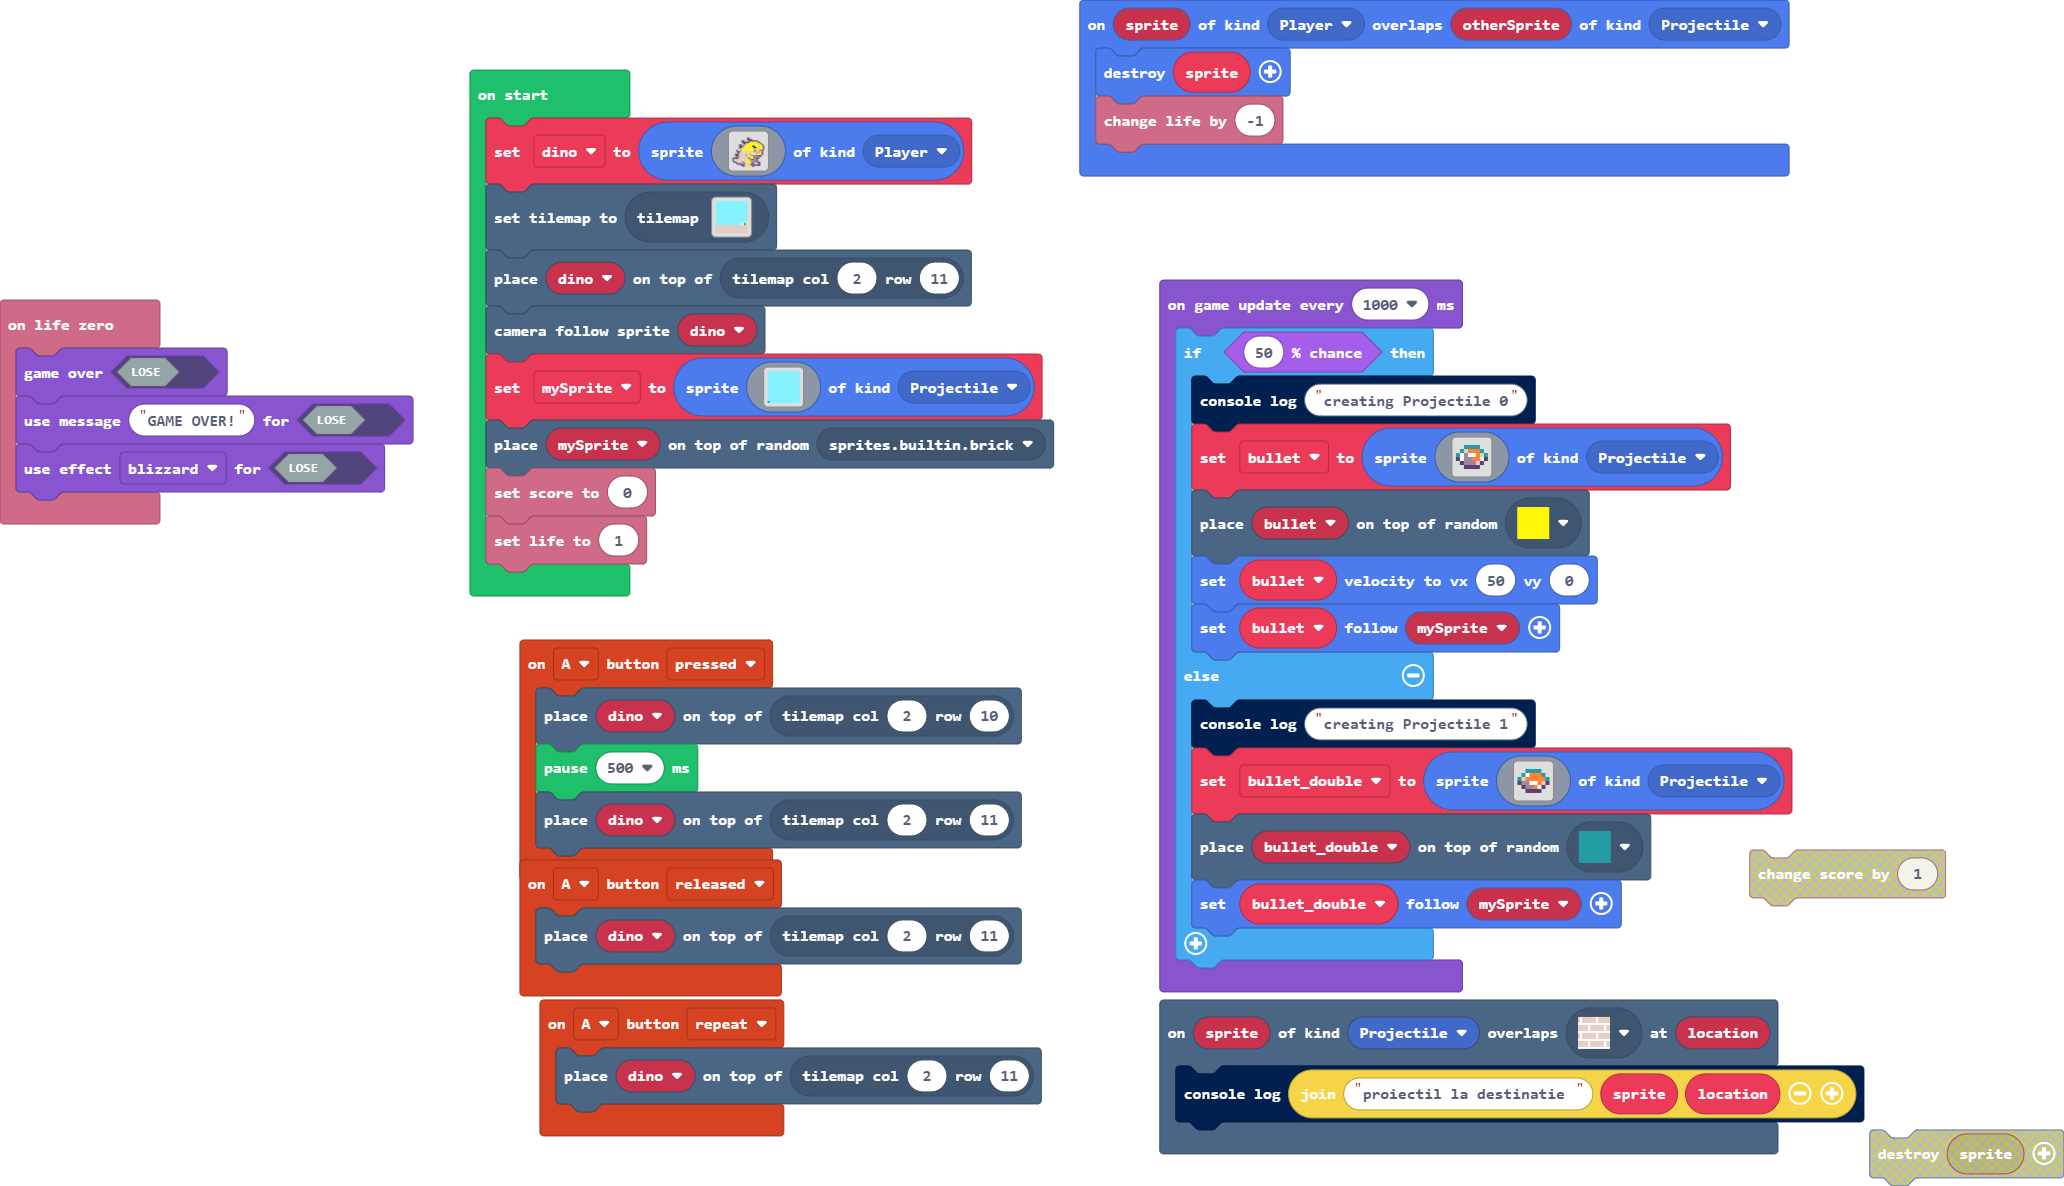
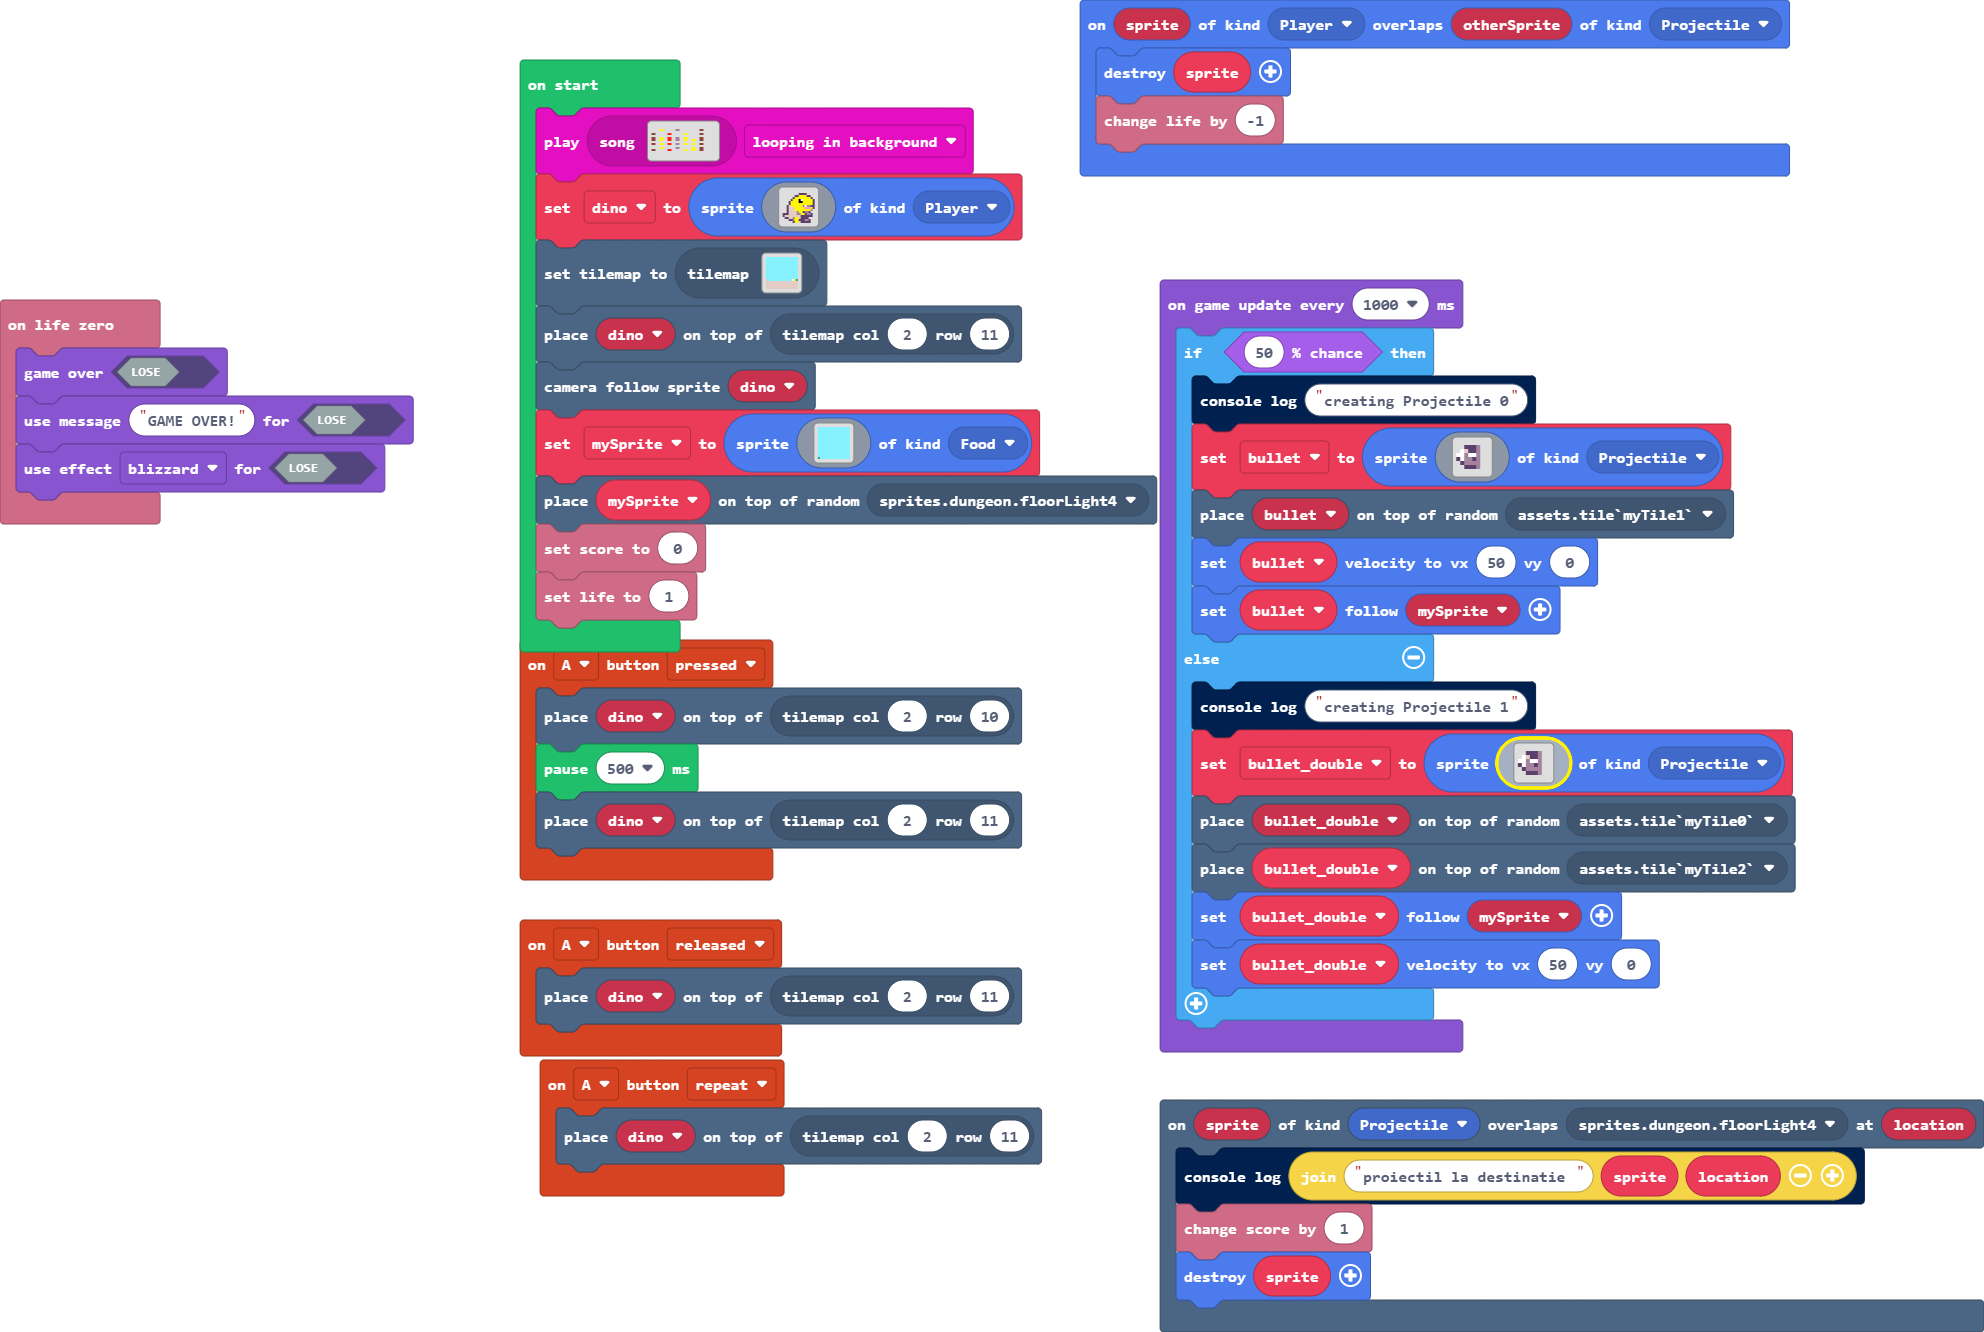
Update pxt.json, main.blocks, main.ts, tilemap.g.jres, tilemap.g.ts

diff --git a/main.ts b/main.ts
@@ -10,9 +10,6 @@ sprites.onOverlap(SpriteKind.Player, SpriteKind.Projectile, function (sprite, ot
 controller.A.onEvent(ControllerButtonEvent.Released, function () {
     tiles.placeOnTile(dino, tiles.getTileLocation(2, 11))
 })
-scene.onOverlapTile(SpriteKind.Projectile, sprites.builtin.brick, function (sprite, location) {
-    console.log("proiectil la destinatie " + sprite + location)
-})
 info.onLifeZero(function () {
     game.gameOver(false)
     game.setGameOverMessage(false, "GAME OVER!")
@@ -21,34 +18,32 @@ info.onLifeZero(function () {
 controller.A.onEvent(ControllerButtonEvent.Repeated, function () {
     tiles.placeOnTile(dino, tiles.getTileLocation(2, 11))
 })
+scene.onOverlapTile(SpriteKind.Projectile, sprites.dungeon.floorLight4, function (sprite, location) {
+    console.log("proiectil la destinatie " + sprite + location)
+    info.changeScoreBy(1)
+    sprites.destroy(sprite)
+})
 let bullet_double: Sprite = null
 let bullet: Sprite = null
 let dino: Sprite = null
[1 lines of base64/hex data omitted]
 dino = sprites.create(img`
-    ........................
-    ........................
-    ...........cc...........
-    ...........cccc.........
-    .......cc...ccccccc.....
-    .......cccccc555555cc...
-    ........ccb5555555555c..
-    .....cc..b555555555555c.
-    .....cccb555555ff155555c
-    .....ccb55555555ff55d55c
-    ......b5555555555555555c
-    ...c..b555d55555bb13bbc.
-    ...cccd55ddddd55bb3335c.
-    ....cbdddddddddd55b335c.
-    ..cccdddddb55bdddd5555c.
-    ..cccdddddb555bbbbcccc..
-    ...ccddddddb5555cbcdc...
-    ccccbdddddddcb55cbcc....
-    cddddddddd55dbccbbc.....
-    cbdddddddd555dbbbcc.....
-    .ccbdddbbdd555bbcdbcc...
-    ...cccbbbbdd55ccdddbc...
-    ......cccbdddbccccccc...
-    ........cdd555dc........
+    . . . . . . . . . . . . . . . . 
+    . . . . . . . . c c c c . . . . 
+    . . . . . . c c 5 5 5 5 c c . . 
+    . . . . . c 5 5 5 5 5 5 5 5 c . 
+    . . . . c 5 5 5 f 1 5 5 5 5 5 c 
+    . . . c 5 5 5 5 f f 5 5 5 5 5 c 
+    . . . c 5 5 5 5 5 5 5 5 5 5 5 c 
+    . . c d 5 5 5 5 5 5 b 1 b b c c 
+    . . c d d d 5 5 5 5 5 3 3 3 5 c 
+    . . c d d d 5 5 5 5 5 5 5 5 b . 
+    . . c d d d d b 5 5 c b b c . . 
+    c c c d d d d b b 5 5 c b b c . 
+    c d d d d d d d d c c c c c c . 
+    . c c d d b 5 5 d c c c c . . . 
+    . . . c c b 5 5 c c c b b c . . 
+    . . . . . c 5 5 d c c c c c . . 
     `, SpriteKind.Player)
 tiles.setCurrentTilemap(tilemap`level4`)
 tiles.placeOnTile(dino, tiles.getTileLocation(2, 11))
@@ -70,35 +65,37 @@ let mySprite = sprites.create(img`
     9 9 9 9 9 9 9 9 9 9 9 9 9 9 9 9 
     9 9 9 9 9 9 9 9 9 9 9 9 9 9 9 9 
     6 9 9 9 9 9 9 9 9 9 9 9 9 9 9 9 
-    `, SpriteKind.Projectile)
-tiles.placeOnRandomTile(mySprite, sprites.builtin.brick)
+    `, SpriteKind.Food)
+tiles.placeOnRandomTile(mySprite, sprites.dungeon.floorLight4)
 info.setScore(0)
 info.setLife(1)
 game.onUpdateInterval(1000, function () {
     if (Math.percentChance(50)) {
         console.log("creating Projectile 0")
         bullet = sprites.create(img`
-            . . 6 6 6 6 . . 
-            . 6 d 4 4 4 6 . 
-            6 1 b 1 1 4 d 6 
-            c 1 b b 4 4 1 c 
-            . c b b b d c . 
-            . . c c c c . . 
+            . . c c c b . . 
+            . 1 d c c b . . 
+            1 1 b 1 1 b . . 
+            c 1 b b c b . . 
+            . c b b b b . . 
+            . . c c c b . . 
             `, SpriteKind.Projectile)
-        tiles.placeOnRandomTile(bullet, assets.tile`myTile0`)
+        tiles.placeOnRandomTile(bullet, assets.tile`myTile1`)
         bullet.setVelocity(50, 0)
         bullet.follow(mySprite)
     } else {
         console.log("creating Projectile 1")
         bullet_double = sprites.create(img`
-            . . 6 6 6 6 . . 
-            . 6 1 4 4 4 6 . 
-            6 d 4 4 4 4 4 6 
-            c b b 1 1 4 d c 
-            . c b b 4 1 c . 
-            . . c c c c . . 
+            . . c c c b . . 
+            . 1 d c c b . . 
+            1 1 b 1 1 b . . 
+            c 1 b b c b . . 
+            . c b b b b . . 
+            . . c c c b . . 
             `, SpriteKind.Projectile)
-        tiles.placeOnRandomTile(bullet_double, assets.tile`myTile1`)
+        tiles.placeOnRandomTile(bullet_double, assets.tile`myTile0`)
+        tiles.placeOnRandomTile(bullet_double, assets.tile`myTile2`)
         bullet_double.follow(mySprite)
+        bullet_double.setVelocity(50, 0)
     }
 })

diff --git a/tilemap.g.ts b/tilemap.g.ts
@@ -10,6 +10,10 @@ namespace myTiles {
     export const tile3 = image.ofBuffer(hex``);
     //% fixedInstance jres blockIdentity=images._tile
     export const tile4 = image.ofBuffer(hex``);
+    //% fixedInstance jres blockIdentity=images._tile
+    export const tile5 = image.ofBuffer(hex``);
+    //% fixedInstance jres blockIdentity=images._tile
+    export const tile6 = image.ofBuffer(hex``);
 
     helpers._registerFactory("tilemap", function(name: string) {
         switch(helpers.stringTrim(name)) {
@@ -70,8 +74,27 @@ namespace myTiles {
 . . . . . . . . . . . . . . . . 
 . . . . . . . . . . . . . . . . 
 `, [myTiles.transparency16], TileScale.Sixteen);
+            case "level5":
+            case "level5":return tiles.createTilemap(hex`1000100000000000000000000000000000000000000000000000000000000000000000000000000000000000000000000000000000000000000000000000000000000000000000000000000000000000000000000000000000000000000000000000000000000000000000000000000000000000000000000000000000000000000000000000000000000000000000000000000000000000000000000000000000000000000000000000000000000000000000000000000000000000000000000000000000000000000000000000000000000000000000000000000000000000000000000000000000000000000000000000000000000000000000000000000000000000`, img`
+. . . . . . . . . . . . . . . . 
+. . . . . . . . . . . . . . . . 
+. . . . . . . . . . . . . . . . 
+. . . . . . . . . . . . . . . . 
+. . . . . . . . . . . . . . . . 
+. . . . . . . . . . . . . . . . 
+. . . . . . . . . . . . . . . . 
+. . . . . . . . . . . . . . . . 
+. . . . . . . . . . . . . . . . 
+. . . . . . . . . . . . . . . . 
+. . . . . . . . . . . . . . . . 
+. . . . . . . . . . . . . . . . 
+. . . . . . . . . . . . . . . . 
+. . . . . . . . . . . . . . . . 
+. . . . . . . . . . . . . . . . 
+. . . . . . . . . . . . . . . . 
+`, [myTiles.transparency16], TileScale.Sixteen);
             case "level4":
-            case "level4":return tiles.createTilemap(hex`1000100002020202020202020202020202020202020202020202020202020202020202020202020202020202020202020202020202020202020202020202020202020202020202020202020202020202020202020202020202020202020202020202020202020202020202020202020202020202020202020202020202020202020202020202020202020202020202020202020202020202020202020202020202020202020202020202020202020202020202020202020202020202020202020205040301010101010101010101010101010101010101010101010101010101010101010101010101010101010101010101010101010101010101010101010101010101`, img`
+            case "level4":return tiles.createTilemap(hex`1000100002020202020202020202020202020202020202020202020202020202020202020202020202020202020202020202020202020202020202020202020202020202020202020202020202020202020202020202020202020202020202020202020202020202020202020202020202020202020202020202020202020202020202020202020202020202020202020202020202020202020202020202020202020202020202020202020202020202020202020302020202020202020202020206040501010101010101010101010101010101010101010101010101010101010101010101010101010101010101010101010101010101010101010101010101010101`, img`
 . . . . . . . . . . . . . . . . 
 . . . . . . . . . . . . . . . . 
 . . . . . . . . . . . . . . . . 
@@ -88,7 +111,7 @@ namespace myTiles {
 . . . . . . . . . . . . . . . . 
 . . . . . . . . . . . . . . . . 
 . . . . . . . . . . . . . . . . 
-`, [myTiles.transparency16,sprites.castle.tilePath5,myTiles.tile1,myTiles.tile2,myTiles.tile3,myTiles.tile4], TileScale.Sixteen);
+`, [myTiles.transparency16,sprites.castle.tilePath5,myTiles.tile1,sprites.dungeon.floorLight4,myTiles.tile2,myTiles.tile3,myTiles.tile4], TileScale.Sixteen);
         }
         return null;
     })
@@ -104,6 +127,10 @@ namespace myTiles {
             case "tile3":return tile3;
             case "myTile2":
             case "tile4":return tile4;
+            case "myTile3":
+            case "tile5":return tile5;
+            case "myTile4":
+            case "tile6":return tile6;
         }
         return null;
     })
